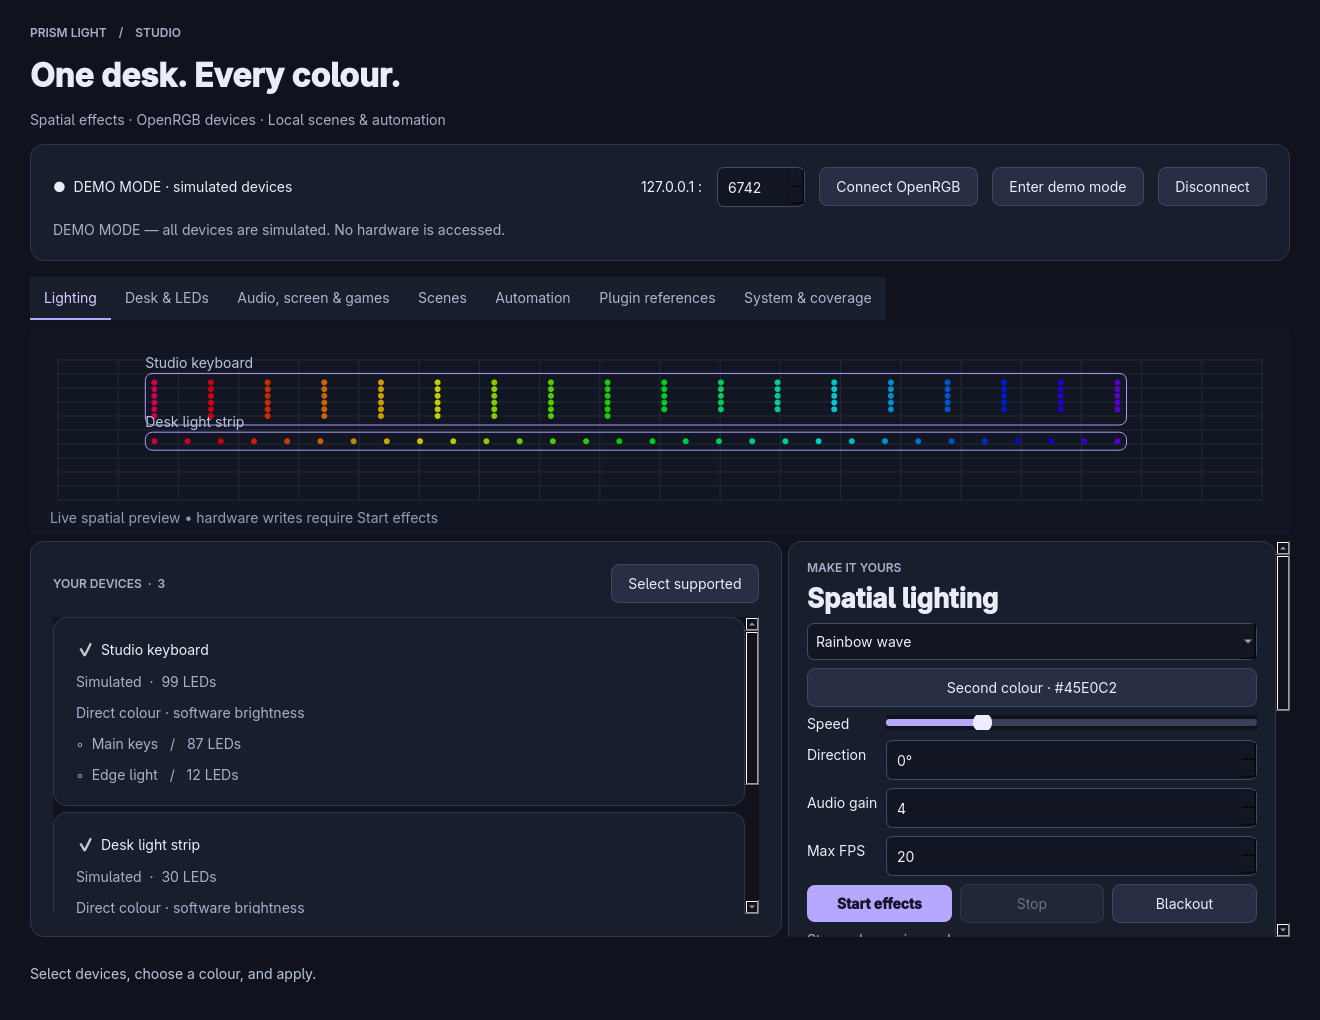
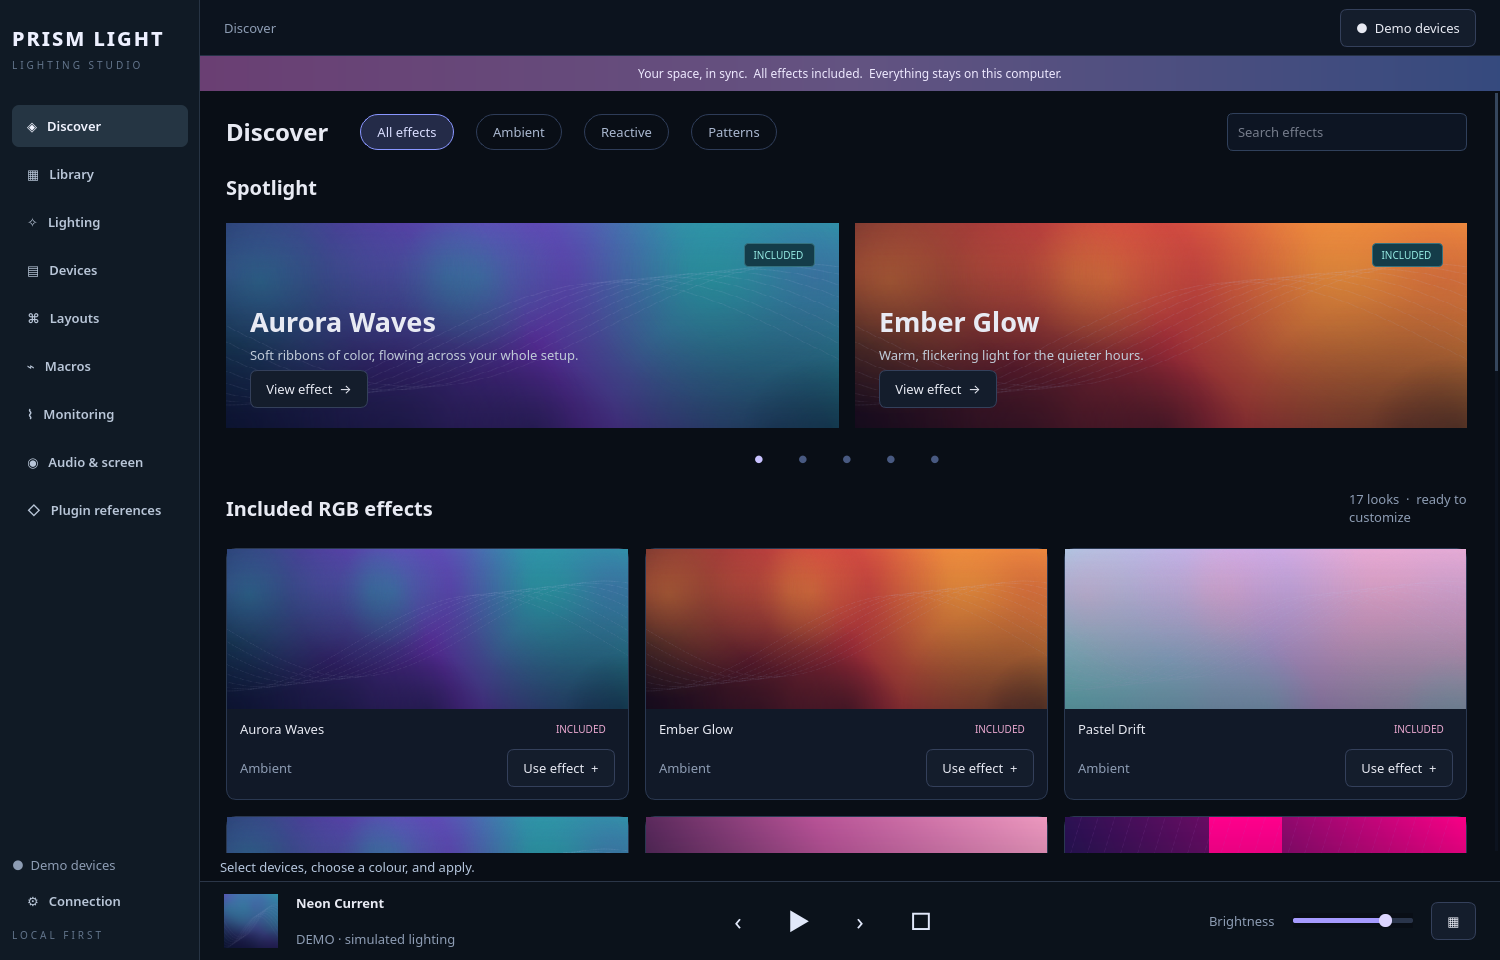
Redesign Studio with an effect gallery, sidebar and playback bar

diff --git a/prism/shell.py b/prism/shell.py
@@ -1,0 +1,251 @@
+# SPDX-License-Identifier: GPL-3.0-only
+"""Gallery-first desktop shell. Artwork is painted locally from original code."""
+import math
+from PySide6.QtCore import Qt,QRectF,QPointF
+from PySide6.QtGui import QColor,QPainter,QPixmap,QLinearGradient,QRadialGradient,QPen
+from PySide6.QtWidgets import (QWidget,QFrame,QLabel,QPushButton,QVBoxLayout,QHBoxLayout,
+    QGridLayout,QScrollArea,QStackedWidget,QLineEdit,QButtonGroup,QSlider,QSizePolicy)
+from .effects import EFFECTS
+
+THEME='''
+QWidget { background:#090e16; color:#e8eaf3; font-family:"Inter","Segoe UI",sans-serif; font-size:13px; }
+QFrame#sidebar { background:#101a25; border-right:1px solid #273444; }
+QFrame#sidebar QLabel { background:transparent; }
+QLabel#brand { color:#edf0ff; font-size:20px; font-weight:800; letter-spacing:2px; }
+QLabel#brandSub { color:#62748b; font-size:10px; letter-spacing:3px; }
+QPushButton#nav { text-align:left; padding:12px 15px; background:transparent; color:#b9c6d8; border:0; border-radius:7px; font-weight:600; }
+QPushButton#nav:hover { background:#1a2939; color:white; }
+QPushButton#nav:checked { background:#253543; color:#f1f4ff; }
+QFrame#topbar { background:#0c131e; border-bottom:1px solid #253146; }
+QFrame#player { background:#0b121b; border-top:1px solid #2b3648; }
+QFrame#player QLabel { background:transparent; }
+QLabel#notice { background:qlineargradient(x1:0,y1:0,x2:1,y2:0,stop:0 #6a3f73,stop:.5 #635381,stop:1 #354a7e); padding:9px; color:#eee9ff; font-size:12px; }
+QLabel#pageTitle { font-size:24px; font-weight:750; }
+QLabel#sectionTitle { font-size:20px; font-weight:700; background:transparent; }
+QLabel#muted { color:#8d9cb3; background:transparent; }
+QPushButton { background:#141d2c; border:1px solid #34405b; border-radius:7px; padding:9px 15px; }
+QPushButton:hover { background:#222e45; border-color:#8f9eff; }
+QPushButton#primary { background:#a89bff; border:0; color:#17132b; font-weight:700; }
+QPushButton#chip { border-radius:18px; padding:8px 16px; background:transparent; border:1px solid #2e3c58; color:#aab8d0; }
+QPushButton#chip:checked { background:#242b48; border-color:#8996ff; color:#d9ddff; }
+QPushButton#transport { background:transparent; border:0; font-size:24px; padding:5px 14px; color:#e1e8fa; }
+QPushButton#transport:hover { background:#1e2a3c; }
+QPushButton:disabled { color:#536075; background:#111927; border-color:#233044; }
+QFrame#effectCard { background:#111928; border:1px solid #2a3851; border-radius:10px; }
+QFrame#effectCard QLabel { background:transparent; border:0; }
+QLabel#badge { color:#eaa8d0; border:1px solid #9b5882; border-radius:4px; padding:3px 6px; font-size:10px; }
+QFrame#panel { background:#111a28; border:1px solid #29364a; border-radius:10px; }
+QFrame#panel QLabel,QFrame#panel QCheckBox { background:transparent; }
+QLabel#title { font-size:27px; font-weight:700; }
+QLabel#sub,QLabel#eyebrow { color:#96a5bc; }
+QLineEdit,QComboBox,QSpinBox,QDoubleSpinBox { background:#0d1523; color:#dce2f1; border:1px solid #30405b; border-radius:6px; padding:8px; }
+QScrollArea { border:0; background:transparent; }
+QScrollBar:vertical { background:#0c131f; width:7px; margin:2px; }
+QScrollBar::handle:vertical { background:#35465d; border-radius:3px; min-height:28px; }
+QScrollBar::add-line:vertical,QScrollBar::sub-line:vertical { height:0; }
+QSlider::groove:horizontal { background:#2a354b; height:5px; border-radius:2px; }
+QSlider::sub-page:horizontal { background:#a69bff; border-radius:2px; }
+QSlider::handle:horizontal { background:#ddd6ff; width:13px; margin:-4px 0; border-radius:6px; }
+QTabWidget::pane { border:0; }
+QTableWidget { background:#101927; gridline-color:#243249; }
+QHeaderView::section { background:#1b293d; border:0; padding:10px; }
+QCheckBox::indicator { width:18px; height:18px; }
+'''
+
+LOOKS=[
+    ('Aurora Waves','Plasma','#B6A7FF','#45E0C2','Ambient','Soft ribbons of color, flowing across your whole setup.'),
+    ('Ember Glow','Fire','#FF6728','#FFC466','Ambient','Warm, flickering light for the quieter hours.'),
+    ('Pastel Drift','Gradient','#E9A7DC','#85E7EB','Ambient','A soft blend of mint, pink and lilac.'),
+    ('Neon Current','Rainbow wave','#956BFF','#36E8DD','Patterns','A spectrum that travels through your desk.'),
+    ('Bubblegum','Ripple','#ED79B4','#853B84','Patterns','Playful rings of rose and violet.'),
+    ('Visor','Scanner','#F00083','#10176C','Patterns','A sharp sweep of light, back and forth.'),
+    ('After Hours','Breathing','#7074DE','#241A50','Ambient','A slow breath of indigo.'),
+    ('Sound Bloom','Audio pulse','#7A6AFF','#FF7FB3','Reactive','Let your audio input set the pulse.'),
+    ('Spectrum','Audio spectrum','#43DDCD','#9775FF','Reactive','Eight frequency probes, painted in color.'),
+    ('Screen Flow','Screen ambience','#50C9D1','#7065D7','Reactive','Bring your display colors into the room.'),
+    ('Starlight','Twinkle','#C4D9FF','#AA87F7','Ambient','Small sparks in a quiet night sky.'),
+    ('Orbit','Comet','#68C8ED','#815AE2','Patterns','One bright trail across your lighting.'),
+    ('Chromatic','Color cycle','#E978B3','#52DBD0','Ambient','A steady journey around the color wheel.'),
+    ('Checkmate','Checkerboard','#937BF0','#45CFC4','Patterns','A moving grid with a little contrast.'),
+    ('Focus','Solid','#FFDEA5','#FFFFFF','Ambient','A single warm color. Less distraction.'),
+    ('System Pulse','CPU meter','#4EC8C0','#F38084','Reactive','A live view of your CPU load.'),
+    ('Game Signal','Game event','#FF6F91','#7462DC','Reactive','Color events from your own game adapter.'),
+]
+
+def text(value,name=None):
+    w=QLabel(value);w.setWordWrap(True);w.setTextFormat(Qt.PlainText)
+    if name:w.setObjectName(name)
+    return w
+
+def artwork(effect,width=600,height=240):
+    pix=QPixmap(width,height);pix.fill(QColor('#101624'))
+    p=QPainter(pix);p.setRenderHint(QPainter.Antialiasing)
+    palette={'Fire':['#210d23','#c83642','#ffb23b'], 'Gradient':['#84dde4','#c6abe9','#f6aaca'],
+             'Ripple':['#381b47','#b75296','#ed99bf'], 'Scanner':['#11134c','#720b66','#fa0087'],
+             'Audio pulse':['#101e42','#6339cb','#f77dd1'], 'Solid':['#2d2443','#e0ac85','#ffdfa8']}
+    colors=palette.get(effect,['#111b43','#6c35b9','#13bfa0'])
+    bg=QLinearGradient(0,height,width,0)
+    for at,c in zip([0,.5,1],colors):bg.setColorAt(at,QColor(c))
+    p.fillRect(pix.rect(),bg)
+    if effect=='Scanner':
+        p.fillRect(QRectF(width*.36,0,width*.18,height),QColor('#ff008c'))
+        for i in range(24):
+            p.setPen(QPen(QColor(170,90,200,30),1));p.drawLine(int(i*width/24),0,int(i*width/24-width*.12),height)
+    elif effect in ('Ripple','Twinkle'):
+        for i in range(38):
+            x=(math.sin(i*17.1)+1)*width/2;y=(math.cos(i*6.3)+1)*height/2;r=8+(i%6)*7
+            g=QRadialGradient(x,y,r);g.setColorAt(0,QColor(255,200,233,130));g.setColorAt(1,QColor(255,200,233,0))
+            p.setBrush(g);p.setPen(Qt.NoPen);p.drawEllipse(QPointF(x,y),r,r)
+    else:
+        for i in range(15):
+            x=(math.sin(i*1.2)+1)*width/2;y=(math.cos(i*2.1)+1)*height/2;r=height*(.35+(i%4)*.15)
+            c=QColor(colors[i%3]);c.setAlpha(100)
+            g=QRadialGradient(x,y,r);g.setColorAt(0,c);c=QColor(c);c.setAlpha(0);g.setColorAt(1,c)
+            p.setBrush(g);p.setPen(Qt.NoPen);p.drawEllipse(QPointF(x,y),r,r)
+        for line in range(8):
+            c=QColor('#d4d0ff');c.setAlpha(22);p.setPen(QPen(c,1))
+            previous=None
+            for x in range(0,width+4,4):
+                y=height*.5+math.sin(x/width*5+line*.22)*height*.3+line*3
+                point=QPointF(x,y)
+                if previous:p.drawLine(previous,point)
+                previous=point
+    shade=QLinearGradient(0,0,0,height);shade.setColorAt(0,QColor(3,8,18,0));shade.setColorAt(1,QColor(3,8,18,100));p.fillRect(pix.rect(),shade)
+    p.end();return pix
+
+class Art(QWidget):
+    def __init__(self,effect,parent=None):
+        super().__init__(parent);self.effect=effect;self.image=artwork(effect)
+        self.setMinimumHeight(145);self.setSizePolicy(QSizePolicy.Expanding,QSizePolicy.Expanding)
+    def paintEvent(self,event):
+        p=QPainter(self);p.drawPixmap(self.rect(),self.image)
+
+class Hero(Art):
+    def __init__(self,look,callback):
+        super().__init__(look[1]);self.setMinimumHeight(205)
+        box=QVBoxLayout(self);box.setContentsMargins(24,20,24,20)
+        row=QHBoxLayout();row.addStretch();badge=text(' INCLUDED ');badge.setStyleSheet('color:#93e8e1;background:#143c49;border:1px solid #35717e;border-radius:4px;padding:4px;font-size:10px;');row.addWidget(badge);box.addLayout(row);box.addStretch()
+        title=text(look[0]);title.setStyleSheet('font-size:27px;font-weight:750;background:transparent;');box.addWidget(title)
+        subtitle=text(look[5]);subtitle.setStyleSheet('background:transparent;color:#c0cbd8;');box.addWidget(subtitle)
+        row=QHBoxLayout();b=QPushButton('View effect  →');b.clicked.connect(callback);row.addWidget(b);row.addStretch();box.addLayout(row)
+
+class Shell:
+    def __init__(self,w):
+        self.w=w;self.category='All effects';self.cards=[];self.active_name='Solid';self.nav_buttons=[];self.nav_map={}
+        # Retain the existing editors and their signals; replace their outer shell.
+        old=w.takeCentralWidget();old_layout=old.layout()
+        self.connection=old_layout.itemAt(3).widget();old_layout.removeWidget(self.connection)
+        old_layout.removeWidget(w.tabs);old_layout.removeWidget(w.feedback)
+        self.tabs=w.tabs;self.tabs.tabBar().hide()
+        root=QWidget();root.setObjectName('desktopRoot');w.setCentralWidget(root)
+        rootbox=QHBoxLayout(root);rootbox.setSpacing(0);rootbox.setContentsMargins(0,0,0,0)
+        side=QFrame();side.setObjectName('sidebar');side.setFixedWidth(200);nav=QVBoxLayout(side);nav.setContentsMargins(12,24,12,18);nav.setSpacing(6)
+        nav.addWidget(text('PRISM LIGHT','brand'));nav.addWidget(text('LIGHTING STUDIO','brandSub'));nav.addSpacing(27)
+        self.group=QButtonGroup(root);self.group.setExclusive(True)
+        items=[('◈','Discover',None),('▦','Library',3),('✧','Lighting',0),('▤','Devices',0),('⌘','Layouts',1),('⌁','Macros',4),('⌇','Monitoring',6),('◉','Audio & screen',2),('◇','Plugin references',5)]
+        for icon,name,target in items:
+            b=QPushButton(f'{icon}   {name.replace("&","&&")}');b.setObjectName('nav');b.setCheckable(True)
+            b.clicked.connect(lambda checked=False,t=target,n=name:self.navigate(t,n));self.group.addButton(b);nav.addWidget(b);self.nav_buttons.append(b);self.nav_map[name]=b
+        self.nav_buttons[0].setChecked(True);nav.addStretch()
+        self.side_status=text('○  Offline','muted');nav.addWidget(self.side_status)
+        b=QPushButton('⚙   Connection');b.setObjectName('nav');b.clicked.connect(self.show_connection);nav.addWidget(b)
+        version=text('LOCAL FIRST','brandSub');nav.addWidget(version);rootbox.addWidget(side)
+        right=QWidget();rightbox=QVBoxLayout(right);rightbox.setContentsMargins(0,0,0,0);rightbox.setSpacing(0);rootbox.addWidget(right,1)
+        top=QFrame();top.setObjectName('topbar');topbox=QHBoxLayout(top);topbox.setContentsMargins(24,9,24,9)
+        self.breadcrumb=text('Discover','muted');topbox.addWidget(self.breadcrumb);topbox.addStretch()
+        self.connection_button=QPushButton('○  Connect devices');self.connection_button.clicked.connect(self.show_connection);topbox.addWidget(self.connection_button)
+        rightbox.addWidget(top)
+        notice=text('Your space, in sync.  All effects included.  Everything stays on this computer.','notice');notice.setAlignment(Qt.AlignCenter);rightbox.addWidget(notice)
+        self.connection.setVisible(False);rightbox.addWidget(self.connection)
+        self.stack=QStackedWidget();rightbox.addWidget(self.stack,1)
+        self.discover=self.build_discover();self.stack.addWidget(self.discover);self.stack.addWidget(self.tabs)
+        w.feedback.setContentsMargins(20,4,20,4);w.feedback.setMinimumHeight(28);rightbox.addWidget(w.feedback)
+        self.build_player(rightbox)
+        old.deleteLater();w.resize(1500,960);w.setMinimumSize(1080,760)
+        w.setStyleSheet(THEME)
+        w.effect.currentTextChanged.connect(self.effect_selected);w.brightness.valueChanged.connect(self.volume.setValue)
+        w.timer.timeout.connect(self.refresh)
+    def navigate(self,index,name):
+        self.breadcrumb.setText(name)
+        if name in self.nav_map:self.nav_map[name].setChecked(True)
+        if index is None:self.stack.setCurrentIndex(0)
+        else:self.tabs.setCurrentIndex(index);self.stack.setCurrentIndex(1)
+        if name=='Devices':self.connection.setVisible(True)
+    def show_connection(self):
+        self.connection.setVisible(not self.connection.isVisible())
+    def build_discover(self):
+        scroll=QScrollArea();scroll.setWidgetResizable(True)
+        body=QWidget();box=QVBoxLayout(body);box.setContentsMargins(26,22,26,28);box.setSpacing(22)
+        filters=QHBoxLayout();filters.addWidget(text('Discover','pageTitle'));filters.addSpacing(9)
+        group=QButtonGroup(body);group.setExclusive(True)
+        for name in ['All effects','Ambient','Reactive','Patterns']:
+            b=QPushButton(name);b.setObjectName('chip');b.setCheckable(True);b.setChecked(name=='All effects')
+            b.clicked.connect(lambda checked=False,n=name:self.set_category(n));group.addButton(b);filters.addWidget(b)
+        filters.addStretch();self.search=QLineEdit();self.search.setPlaceholderText('Search effects');self.search.setMaximumWidth(240);self.search.textChanged.connect(self.filter_cards);filters.addWidget(self.search)
+        box.addLayout(filters);box.addWidget(text('Spotlight','sectionTitle'))
+        self.heroes=QHBoxLayout();self.heroes.setSpacing(16);box.addLayout(self.heroes)
+        dots=QHBoxLayout();dots.addStretch();self.pagers=[]
+        for index in range(5):
+            b=QPushButton('●');b.setFixedSize(22,18);b.setAccessibleName(f'Spotlight page {index+1}')
+            b.clicked.connect(lambda checked=False,i=index:self.spotlight(i));dots.addWidget(b);self.pagers.append(b)
+        dots.addStretch();box.addLayout(dots);self.spotlight(0)
+        row=QHBoxLayout();row.addWidget(text('Included RGB effects','sectionTitle'));row.addStretch();row.addWidget(text('17 looks  ·  ready to customize','muted'));box.addLayout(row)
+        self.grid=QGridLayout();self.grid.setSpacing(16);box.addLayout(self.grid)
+        for look in LOOKS:
+            card=QFrame();card.setObjectName('effectCard');card.setMinimumWidth(190)
+            cb=QVBoxLayout(card);cb.setContentsMargins(0,0,0,12);cb.setSpacing(10)
+            art=Art(look[1]);art.setFixedHeight(160);cb.addWidget(art)
+            row=QHBoxLayout();row.setContentsMargins(13,0,13,0);row.addWidget(text(look[0]));row.addStretch();row.addWidget(text('INCLUDED','badge'));cb.addLayout(row)
+            row=QHBoxLayout();row.setContentsMargins(13,0,13,0);row.addWidget(text(look[4],'muted'));row.addStretch()
+            b=QPushButton('Use effect  +');b.setAccessibleName('Use '+look[0]);b.clicked.connect(lambda checked=False,l=look:self.choose(l));row.addWidget(b);cb.addLayout(row)
+            self.cards.append((look,card))
+        self.empty=text('No effects match your search.','muted');box.addWidget(self.empty);self.empty.hide()
+        box.addStretch();scroll.setWidget(body);self.filter_cards();return scroll
+    def spotlight(self,index):
+        while self.heroes.count():
+            widget=self.heroes.takeAt(0).widget()
+            if widget:widget.deleteLater()
+        for offset in (0,1):
+            look=LOOKS[(index*2+offset)%len(LOOKS)]
+            self.heroes.addWidget(Hero(look,lambda checked=False,l=look:self.choose(l)))
+        for i,b in enumerate(self.pagers):b.setStyleSheet(f'background:transparent;border:0;padding:0;color:{"#c9c2ff" if i==index else "#485981"};font-size:10px;')
+    def set_category(self,name):self.category=name;self.filter_cards()
+    def filter_cards(self,*args):
+        while self.grid.count():self.grid.takeAt(0)
+        count=0;query=self.search.text().casefold()
+        for look,card in self.cards:
+            visible=(self.category=='All effects' or self.category==look[4]) and query in (' '.join(look)).casefold()
+            card.setVisible(visible)
+            if visible:self.grid.addWidget(card,count//3,count%3);count+=1
+        self.empty.setVisible(count==0)
+    def choose(self,look):
+        self.active_name=look[0];self.w.starter(look[1],look[2],look[3]);self.nav_buttons[2].setChecked(True);self.navigate(0,'Lighting')
+        self.w.report(look[0]+' selected. Customize it, then press Play to send it to your lights.')
+        self.effect_selected(look[1])
+    def build_player(self,box):
+        player=QFrame();player.setObjectName('player');row=QHBoxLayout(player);row.setContentsMargins(24,12,24,12);row.setSpacing(18)
+        self.album=QLabel();self.album.setFixedSize(54,54);row.addWidget(self.album)
+        info=QVBoxLayout();self.track=text('Solid');self.track.setStyleSheet('font-weight:700;');self.track_info=text('Prism Light  ·  local effect','muted');self.track.setWordWrap(False);self.track_info.setWordWrap(False);info.addWidget(self.track);info.addWidget(self.track_info);row.addLayout(info);row.addStretch()
+        for symbol,tip,fn in [('‹','Previous effect',lambda:self.step(-1)),('▶','Play / pause',self.toggle),('›','Next effect',lambda:self.step(1)),('□','Blackout',self.w.blackout)]:
+            b=QPushButton(symbol);b.setObjectName('transport');b.setToolTip(tip);b.setAccessibleName(tip);b.clicked.connect(fn);row.addWidget(b)
+            if symbol=='▶':self.play=b
+        row.addStretch();row.addWidget(text('Brightness','muted'))
+        self.volume=QSlider(Qt.Horizontal);self.volume.setRange(0,100);self.volume.setValue(self.w.brightness.value());self.volume.setFixedWidth(120);self.volume.setAccessibleName('Playback brightness');self.volume.valueChanged.connect(self.w.brightness.setValue);row.addWidget(self.volume)
+        layout_button=QPushButton('▦');layout_button.setToolTip('Desk layout');layout_button.clicked.connect(lambda:self.navigate(1,'Layouts'));row.addWidget(layout_button);box.addWidget(player)
+        self.effect_selected(self.w.effect.currentText())
+    def effect_selected(self,effect):
+        self.track.setText(next((l[0] for l in LOOKS if l[1]==effect),effect))
+        self.album.setPixmap(artwork(effect,100,100).scaled(54,54,Qt.KeepAspectRatioByExpanding,Qt.SmoothTransformation))
+    def step(self,delta):
+        index=EFFECTS.index(self.w.effect.currentText());self.w.effect.setCurrentText(EFFECTS[(index+delta)%len(EFFECTS)])
+    def toggle(self):
+        if self.w.streaming:self.w.stop_effects()
+        elif not self.w.connected:self.connection.show();self.w.report('Connect OpenRGB or enter demo mode before starting playback.')
+        else:self.w.start_effects()
+    def refresh(self):
+        self.play.setText('Ⅱ' if self.w.streaming else '▶')
+        if self.w.connected:
+            message='●  Demo devices' if self.w.backend.demo else f'●  {len(self.w.devices)} devices'
+            self.side_status.setText(message);self.connection_button.setText(message)
+        else:self.side_status.setText('○  Offline');self.connection_button.setText('○  Connect devices')
+        self.track_info.setText('DEMO · simulated lighting' if self.w.backend.demo and self.w.connected else 'Prism Light · local effect')

diff --git a/tests/test_studio.py b/tests/test_studio.py
@@ -126,6 +126,20 @@ class StudioUITests(unittest.TestCase):
     def test_all_tabs_and_reference_archive(self):
         self.assertEqual(self.w.tabs.count(),7)
         for i in range(self.w.tabs.count()):self.w.tabs.setCurrentIndex(i);self.app.processEvents()
+    def test_gallery_navigation_filter_and_playback(self):
+        from prism.shell import LOOKS
+        w=self.w;shell=w.shell
+        self.assertEqual(len(shell.cards),17)
+        shell.set_category('Reactive')
+        self.assertEqual(sum(not card.isHidden() for _,card in shell.cards),5)
+        shell.search.setText('Screen Flow')
+        self.assertEqual(sum(not card.isHidden() for _,card in shell.cards),1)
+        shell.choose(LOOKS[2]);self.assertEqual(w.effect.currentText(),'Gradient')
+        self.assertEqual(shell.stack.currentIndex(),1);self.assertEqual(w.tabs.currentIndex(),0)
+        shell.toggle();self.spin();self.assertTrue(w.streaming)
+        shell.toggle();self.assertFalse(w.streaming)
+        shell.volume.setValue(35);self.assertEqual(w.brightness.value(),35)
+        shell.navigate(None,'Discover');self.assertEqual(shell.stack.currentIndex(),0)
     def test_blackout_waits_for_inflight_frame(self):
         import threading
         w=self.w;gate=threading.Event();original=w.backend.apply_frame

diff --git a/prism/studio.py b/prism/studio.py
@@ -131,6 +131,8 @@ class Window(BaseWindow):
         self.build_automation_tab();self.build_catalog_tab();self.build_status_tab()
         self.timer.setInterval(30)
         self.reload_scenes();self.refresh_controls()
+        from .shell import Shell
+        self.shell=Shell(self)
     def layout_for(self,d):
         if d.key not in self.layouts:
             n=next((i for i,v in enumerate(self.devices) if v.key==d.key),0)

diff --git a/docs/VALIDATION.md b/docs/VALIDATION.md
@@ -4,7 +4,7 @@ Environment: Linux x86-64, Python 3.14.9, PySide6/Qt 6.10.1, PyInstaller 6.17.0.
 
 ## Verified locally
 
-- 24 automated tests: SDK negotiation/framing, fragmented responses, timeout/refusal/disconnect, invalid/old packets, parsing, device-list change rejection, unsupported-device isolation, independent LED bytes and Direct-mode initialization once per session.
+- 25 automated tests: SDK negotiation/framing, fragmented responses, timeout/refusal/disconnect, invalid/old packets, parsing, device-list change rejection, unsupported-device isolation, independent LED bytes and Direct-mode initialization once per session.
 - Frame validation rejects wrong lengths, invalid colors and unknown device identities before lighting writes.
 - All 17 effects return bounded RGB output; zero brightness renders black and screen-grid mapping is checked.
 - Scene round-trip, invalid parameter rejection and corrupt-file preservation.
@@ -24,3 +24,7 @@ Environment: Linux x86-64, Python 3.14.9, PySide6/Qt 6.10.1, PyInstaller 6.17.0.
 - LCD hardware, fan/pump writes and game-specific integrations are not implemented and are labelled as unavailable rather than validated features.
 
 No hardware compatibility list, exact SignalRGB parity or public-release certification is claimed. The Linux binary is built for the current environment; it has not been tested on other distributions. Qt/PyInstaller warnings about optional system libraries are recorded in the build log; packaged smoke startup is the relevant local executable check.
+
+## Gallery redesign
+
+The dark sidebar, effect gallery, spotlight carousel and persistent playback bar use original Qt-painted artwork. A GUI test verifies category/search filtering, effect-card navigation, playback and brightness synchronization. Existing device, scene, streaming and blackout tests remain in place. Source and packaged startup are checked after rebuilding.

diff --git a/README.md b/README.md
@@ -28,6 +28,10 @@ Double-click **Build-Windows.cmd** on Windows to test and build `dist/PrismLight
 
 The GitHub Actions workflow runs Windows and Ubuntu tests/builds on pushes and pull requests, and can also be started manually. Check the current workflow run for platform validation and downloadable artifacts.
 
+## Desktop layout
+
+The Discover page has a searchable, categorized gallery of the 17 included effects and a five-page spotlight carousel. Select **Use effect** to open its lighting editor. The left sidebar opens scenes, lighting/devices, layouts, macros, monitoring, audio/screen inputs and protocol references. **Connection** expands the OpenRGB controls. The bottom playback bar stays visible across pages and controls play/pause, previous/next effect, blackout and brightness.
+
 ## Connect hardware
 
 1. Install [OpenRGB](https://openrgb.org/) and check which devices it detects. Follow its platform-specific device/permission setup.
